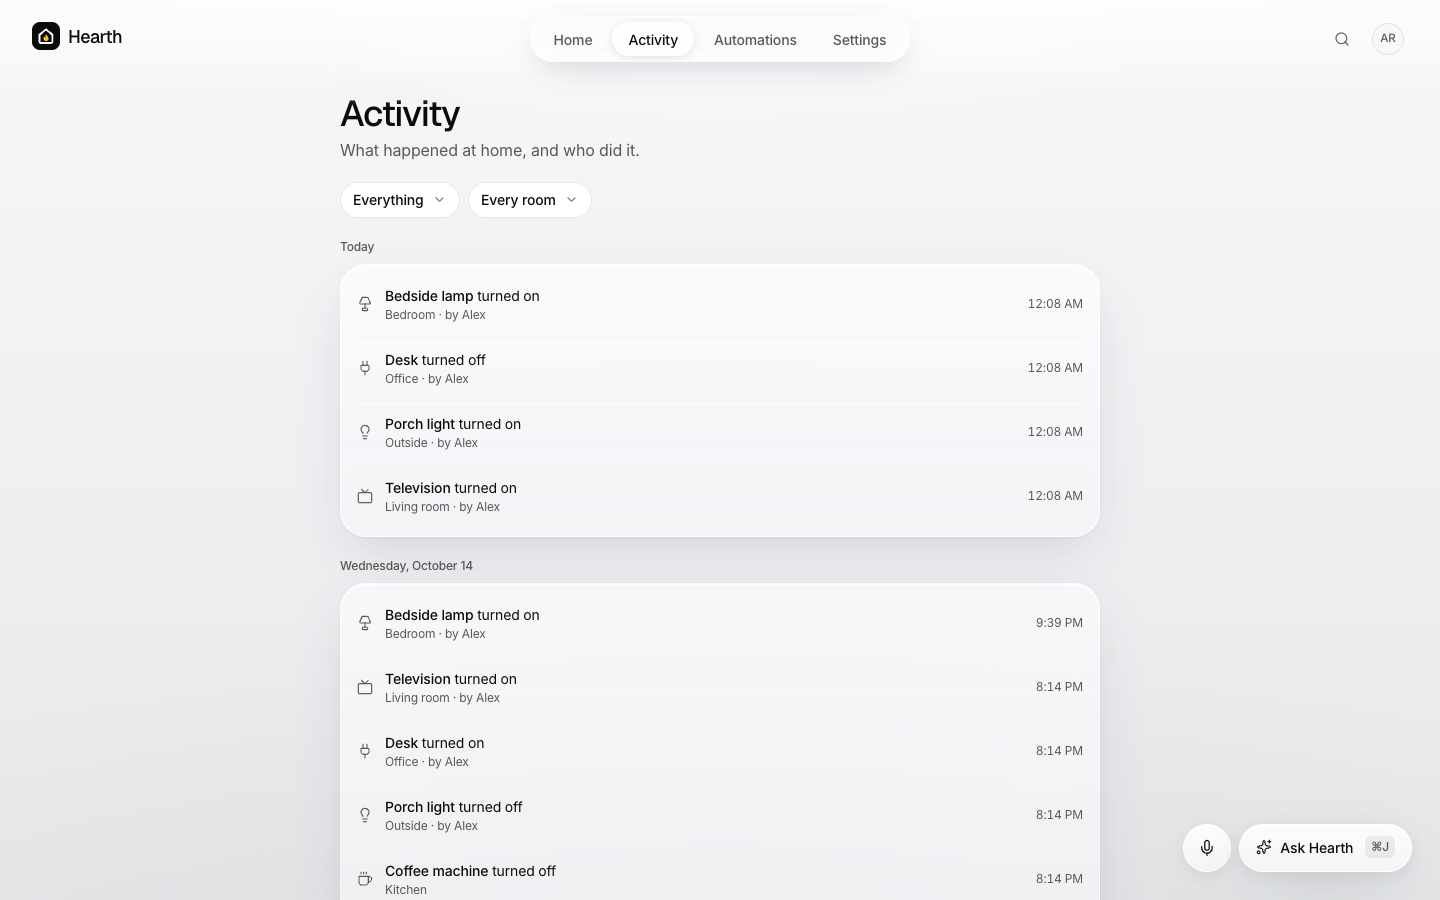
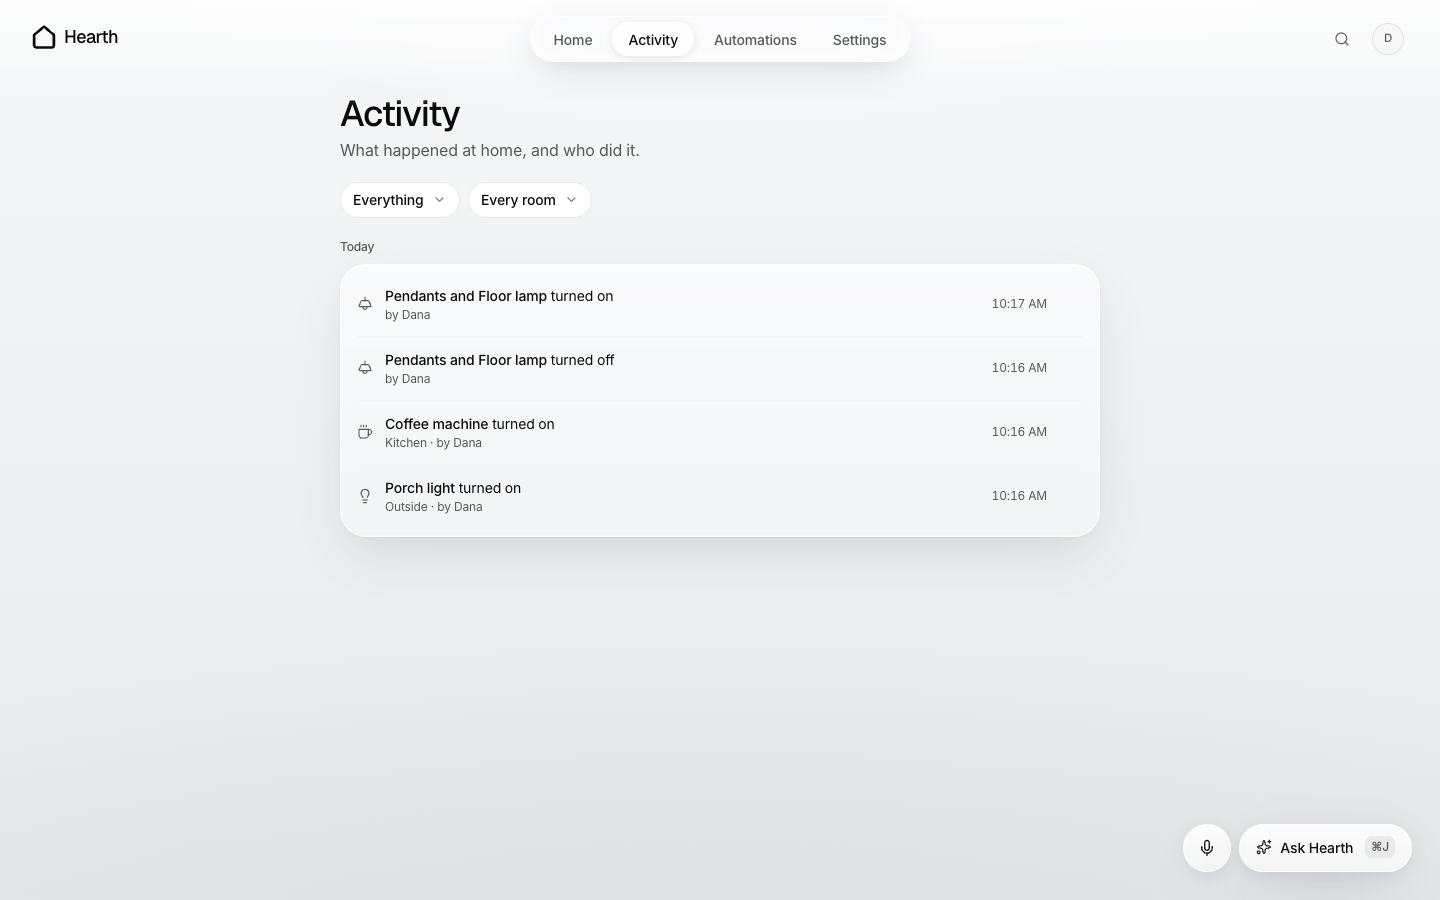
A cleaner demo home and fresh screenshots
The demo home now starts with the widgets worth seeing, departures with
sample times, energy, who is home, and activity, and leaves out raw readings
those already show. Departures and the Activity tile fit a narrow tile on a
phone. The README's screenshots and diagrams are taken again from that home,
with the coded diagrams in place of the drawn ones, and Settings joins them.

diff --git a/src/lib/actions.ts b/src/lib/actions.ts
@@ -73,14 +73,32 @@ export async function addIntegration(input: unknown): Promise<CreatedResult> {
   return result.ok ? { ok: true, id } : result;
 }
 
-/** A demo home arrives with its devices already on the first page, after whatever is there, so there is something to try straight away. */
+/** Kinds the demo's own widgets already cover, Energy, Who's home, and the thermostat, so each does not take a tile too. */
+const DEMO_LEFT_OUT = new Set(["sensor", "todo", "person"]);
+
+/**
+ * A demo home arrives with its devices already on the first page, after whatever is there, so there is something to
+ * try straight away. On an empty dashboard it also brings the widgets worth seeing, with sample departures.
+ */
 async function placeDemoTiles(userId: string, integrationId: string) {
-  const home = await loadHome(userId);
+  const [home, preferences] = await Promise.all([loadHome(userId), getPreferences(userId)]);
   const placed = new Set(home.layout.map(tile => tile.kind === undefined ? tile.id : tile.link));
-  const fresh = suggestedTiles(tileSources(home).filter(source => source.id.startsWith(`${integrationId}:`) && !placed.has(source.id)));
+  const fresh = suggestedTiles(tileSources(home).filter(source => source.id.startsWith(`${integrationId}:`) && !placed.has(source.id) && !DEMO_LEFT_OUT.has(source.kind)));
   if (!fresh.length) return;
-  const layout = [...(home.layout.length ? home.layout : [createTile("clock")]), ...fresh];
-  await savePreferences(userId, { layout, pages: home.pages.map((page, index) => index === 0 ? { ...page, layout } : page) });
+  const empty = home.layout.length === 0;
+  const widgets = empty ? [
+    createTile("clock"),
+    createTile("departures", null, false, { options: { stops: [{ key: "sample:maple-5th", name: "Maple St at 5th Ave" }, { key: "sample:central", name: "Central Station" }] } }),
+    createTile("energy"),
+    createTile("people"),
+    createTile("activity", null, false, { size: "2x3" }),
+  ] : [];
+  const layout = [...home.layout, ...widgets, ...fresh];
+  await savePreferences(userId, {
+    layout,
+    pages: home.pages.map((page, index) => index === 0 ? { ...page, layout } : page),
+    ...(empty && !preferences.transit ? { transit: { key: seal("sample"), sample: true } } : {}),
+  });
 }
 
 export async function addDemoHome(): Promise<ActionResult> {

diff --git a/src/components/dashboard/glance/glance.module.css b/src/components/dashboard/glance/glance.module.css
@@ -326,7 +326,8 @@ button.chip:hover:not(:disabled) {
 @container (max-width: 230px) {
   .peopleRow .title { display: none; }
   .emptied { width: 30px; padding: 0; justify-content: center; font-size: 0; gap: 0; }
-  .applianceIcon { display: none; }
+  .applianceIcon,
+  .row .activityIcon { display: none; }
   .row { grid-template-columns: minmax(0, 1fr) auto; gap: var(--space-2); }
   .row:has(> :first-child[class*="avatar"]) { grid-template-columns: auto minmax(0, 1fr) auto; }
   .say { grid-template-columns: 1fr; }
@@ -367,4 +368,13 @@ button.chip:hover:not(:disabled) {
   grid-auto-flow: row;
   grid-template-columns: repeat(2, minmax(0, 1fr));
   column-gap: var(--space-5);
+}
+
+/* Several devices in one line read in full, over two lines if they need them. */
+.activityLine.activityLine {
+  display: -webkit-box;
+  white-space: normal;
+  -webkit-line-clamp: 2;
+  line-clamp: 2;
+  -webkit-box-orient: vertical;
 }

diff --git a/src/components/dashboard/glance/activity-tile.tsx b/src/components/dashboard/glance/activity-tile.tsx
@@ -47,7 +47,7 @@ export function ActivityTile({ tile, devices }: { tile: TileConfig; devices: Dev
                   <li key={entry.id} className={styles.row} data-tone={entry.tone}>
                     <span className={styles.activityIcon}><Icon size={15} strokeWidth={1.75} aria-hidden="true" /></span>
                     <span className={styles.text}>
-                      <span className={styles.rowName}>{entry.name} <span className={styles.activityWhat}>{entry.what}</span></span>
+                      <span className={`${styles.rowName} ${styles.activityLine}`}>{entry.name} <span className={styles.activityWhat}>{entry.what}</span></span>
                       {(entry.by || entry.room) && <span className={styles.meta}>{entry.by ? `by ${entry.by}` : entry.room}</span>}
                     </span>
                     <time className={styles.meta} dateTime={entry.at}>{when(entry.at)}</time>

diff --git a/src/components/dashboard/transit/departures-tile.module.css b/src/components/dashboard/transit/departures-tile.module.css
@@ -128,3 +128,22 @@
   font-size: var(--text-xs);
   font-weight: 500;
 }
+
+/* A narrow tile, such as a 2x2 on a phone: where each one goes and when, the rest left out so neither is cut short. */
+@container cell (max-width: 230px) {
+  .badge,
+  .stop,
+  .live,
+  .sample { display: none; }
+  .row { gap: var(--space-2); }
+  .headsign {
+    display: -webkit-box;
+    font-size: var(--text-xs);
+    line-height: 1.25;
+    white-space: normal;
+    -webkit-line-clamp: 2;
+    line-clamp: 2;
+    -webkit-box-orient: vertical;
+  }
+  .route { min-width: 30px; height: 24px; padding: 0 6px; font-size: var(--text-xs); }
+}

diff --git a/README.md b/README.md
@@ -2,7 +2,7 @@
 
 A calm, self-hosted home dashboard. Hearth brings your thermostat, cameras, lights, locks, speakers, and Matter devices into one grid you arrange yourself, talks to the Home Assistant you already run, and lets you change things by tapping, typing, or saying them.
 
-**Why "Hearth"?** A hearth is the fireplace at the centre of a home, the spot everyone gathers around. The logo is that: a house with a flame inside.
+**Why "Hearth"?** A hearth is the fireplace at the centre of a home, the spot everyone gathers around. The logo keeps it simple: the outline of a house.
 
 The thermostat glows warm from the top when you raise it and cool from the bottom when you lower it, and keeps a softer glow while the system is actually heating or cooling.
 
@@ -10,7 +10,7 @@ The thermostat glows warm from the top when you raise it and cool from the botto
 | --- | --- |
 | ![Thermostat warming](docs/screenshots/thermostat-warm.png) | ![Thermostat cooling](docs/screenshots/thermostat-cool.png) |
 
-**The dashboard**, built from tiles you choose and arrange yourself.
+**The dashboard**, built from tiles you choose and arrange yourself: the next buses and trains, what is drawing power, who is home, what just happened, and your devices.
 
 ![The dashboard](docs/screenshots/dashboard.png)
 
@@ -30,9 +30,13 @@ The thermostat glows warm from the top when you raise it and cool from the botto
 
 ![Customize dialog](docs/screenshots/customize.png)
 
-**Activity**: everything that happened, from Hearth and Home Assistant alike, and who did it.
+**Activity**: everything that happened, from Hearth and Home Assistant alike, and who did it. Devices that change together share one line.
 
 ![Activity](docs/screenshots/activity.png)
+
+**Settings** in four short groups, one section at a time.
+
+![Settings](docs/screenshots/settings.png)
 
 **Automations** you can pause or snooze.
 
